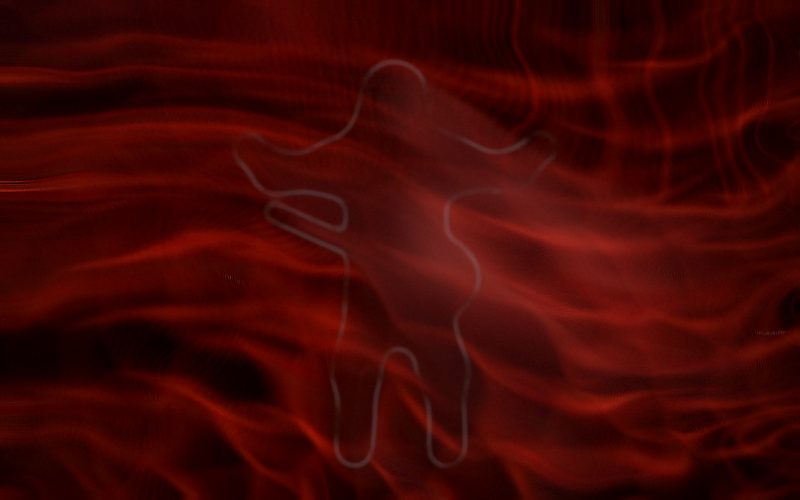
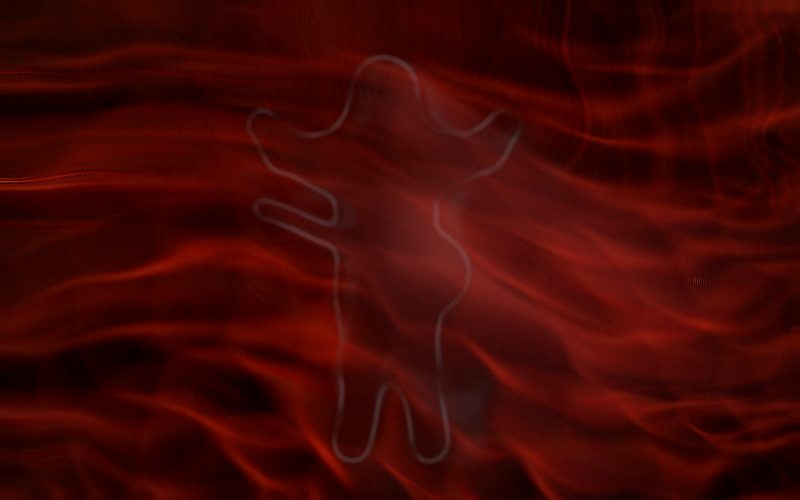
悪夢: 怖気セット — 蠕動・遅れる第二の輪郭・クレンチ・暗部の蠢き・心拍 (#159)
2026-08-25「もっと不快感、気持ち悪さ、ゾッとする感じを演出したい」対応。
派手な演出でなく生理的な違和感を積む(血・悲鳴・ジャンプスケアは不使用 —
「痛みの無い、抜け出せない倦怠と不快」の夢のまま):

- 蠕動: 収縮波(周期~11s)が場を渡り、通る所で組織がすぼまり(heave に
  進行方向の圧縮)、脈が張って灼ける(床の輝度を同位相で変調)。
  「自分は何かの内側にいて、飲み込まれつつある」の含意
- 遅れてついてくる第二の輪郭: 遅いマスクEMA(τ2.3/s→0.8/s に減速、
  τ≈1.25s)の等値線をもう一本のより薄い輪郭として描画。動くと輪郭が
  二つに割れ、止まるとゆっくり追いついて重なる。静止時も僅かに漂い、
  決してぴったりは重ならない(ドッペルゲンガー効果)
- クレンチ: もがきの立ち上がり(struggle が遅い自己平均を+0.10 上回る)で
  場が一瞬締まる — 引きが強まり、呼吸が縮み、脈が灼け、縁が沈む —
  そしてゆっくり緩む。不応期 2.6s。「気づかれた」の体感
- 暗部の蠢き: 黒い細胞の中だけ、粒がゆっくり這う(閾下 ~3%)
- 微かな心拍: ~1Hz の律動を輝度に閾下(2.8%)で
- スライダー「怖気」(dread, 初期0.65)1本で一括制御。freeze で全て静止

検証: verify_order 0 errors / verify_static 既知のgtagのみ /
verify_runtime --motion --longrun 12/12 pass / 実走行シーケンスで
蠕動による輪郭のよじれと分裂を確認。サムネイル再生成。

Claude-Session: https://claude.ai/code/session_0193D14d1SybLDp5E6kaLiCx

diff --git a/opus5_uneri.html b/opus5_uneri.html
@@ -19,6 +19,12 @@
        揺らぎが見えない」— 人はうねりを決して覆わない)。輪郭はソフトマスク
        の等値線帯。ノイズに千切られ、もがくほど薄れる。中身はごく薄い気配。
        ※「意識の窓」は同日のフィードバックで廃止。
+    7. 怖気(2026-08-25 追補「もっと不快感、気持ち悪さ、ゾッとする感じを」):
+       蠕動(収縮波が通ると組織がすぼまり脈が灼ける — 生き物の内側)、
+       遅れてついてくる第二の輪郭(遅いマスクEMA。動くと輪郭が二つに割れる)、
+       クレンチ(もがきの立ち上がりで場が一瞬締まり、緩む — 気づかれた)、
+       暗部の蠢きと微かな心拍(どちらも閾下)。派手にせず、生理的な違和感を
+       積む。血・悲鳴・ジャンプスケアは使わない(痛みの無い夢のまま)。
     3. 身体は呑まれる — マスクの中の実写が絶えずうねりへ注入され、
        引き伸ばされ、千切れて運ばれる。流血や欠損は描かない(痛みは無い。
        「よじれ引き裂かれる感覚」だけがある)。
@@ -66,6 +72,7 @@
     姿          人影の輪郭がどれだけ残るか
     目眩        回転と呼吸(ベクション)の強さ
     拘束        もがきがうねりを締める強さ
+    怖気        蠕動・第二の輪郭・締め付け・蠢きの強さ
     明るさ      画面全体の明るさ
     粒子        画面全体にかかる粒子の量
 
@@ -323,6 +330,7 @@
           figure: 0.55,
           dizzy: 0.45,
           grip: 0.60,
+          dread: 0.65,
           exposure: 1.0,
           filmGrain: 0.20,
         };
@@ -343,6 +351,7 @@
           ["figure", "姿", "人影の輪郭がどれだけ残るか", 0, 1, 0.01],
           ["dizzy", "目眩", "回転と呼吸の強さ", 0, 1, 0.01],
           ["grip", "拘束", "もがきがうねりを締める強さ", 0, 1, 0.01],
+          ["dread", "怖気", "蠕動・第二の輪郭・締め付け・蠢きの強さ", 0, 1, 0.01],
           ["exposure", "明るさ", "画面全体の明るさ", 0.6, 1.4, 0.01],
           ["filmGrain", "粒子", "画面全体にかかる粒子の量", 0, 1, 0.01],
         ];
@@ -741,10 +750,14 @@
           // 大きなたわみ: 画面より大きい波が網目の座標系そのものを揺らす。
           // 移流(積分)ではなく毎フレーム生成し直すので、網は溶けずに
           // 「うねる」— 流れてるだけに見える問題への答え(2026-08-25)
-          vec2 heave(vec2 p, float t, float sw) {
+          vec2 heave(vec2 p, float t, float sw, float dread) {
             float s1 = 0.55 / max(sw, 0.4);
             vec2 w = curlN(p * s1 + vec2(t * 0.11, -t * 0.079)) * 0.30;
             w += curlN(p * s1 * 2.4 + vec2(-t * 0.14, t * 0.10) + 3.7) * 0.13;
+            // 蠕動: 収縮波が通るとき、波の進行方向へ組織がすぼまる。
+            // 「自分は何かの内側にいて、飲み込まれつつある」の含意(怖気)
+            vec2 dir = normalize(vec2(0.8, 0.6));
+            w += dir * sin(dot(p, dir) * 2.6 - t * 0.55) * 0.055 * dread;
             return w;
           }
           // うねり。3スケール: 画面より大きい逆回転の巨渦対(中心は画面外を
@@ -799,6 +812,7 @@
           uniform float uTear;
           uniform float uRust;
           uniform float uStruggle;
+          uniform float uDread;
           uniform int uReset;
           ${CHUNK_NOISE}
           ${CHUNK_ENC}
@@ -851,9 +865,13 @@
             // 網目はたわむ座標系で毎フレーム生成し直す(移流で運ぶと数秒で
             // 絹の筋に溶ける)。移流層はこの上に裂片と履歴を残すだけ
             float sw = mix(0.85, 2.6, uSwell);
-            float pig = veinT(p + heave(p, uTime, sw) +
+            float pig = veinT(p + heave(p, uTime, sw, uDread) +
               vec2(uTime * 0.006, -uTime * 0.004));
-            vec3 base = dreamRamp(pig * 0.95, uRust);
+            // 蠕動: 収縮波の波頭で脈が張り、灼ける(heave のすぼまりと同位相)
+            vec2 pdir = normalize(vec2(0.8, 0.6));
+            float peri = smoothstep(0.55, 0.95,
+              0.5 + 0.5 * sin(dot(p, pdir) * 2.6 - uTime * 0.55)) * uDread;
+            vec3 base = dreamRamp(min(pig * (0.95 + 0.42 * peri), 1.0), uRust);
             // τ≈2.2s: 網の再刻印は速く。移流の記憶は2秒ほどだけ残る
             col = mix(col, base, 1.0 - exp(-uDt * 0.45));
 
@@ -1024,6 +1042,8 @@
           uniform float uFigure;
           uniform float uDizzy;
           uniform float uStruggle;
+          uniform float uDread;
+          uniform float uClench;
           uniform float uPresent;
           uniform int uDebug;
           ${CHUNK_NOISE}
@@ -1036,7 +1056,8 @@
             float wob = uDizzy;
             float angv = (sin(uTime * 0.050) + 0.6 * sin(uTime * 0.031 + 1.7)) *
               0.035 * wob;
-            float brth = 1.0 + 0.022 * wob * sin(uTime * 0.043 + 0.8);
+            float brth = (1.0 + 0.022 * wob * sin(uTime * 0.043 + 0.8)) *
+              (1.0 - 0.030 * uClench);
             vec2 q = (vUv - 0.5) * ar;
             float cav = cos(angv), sav = sin(angv);
             q = vec2(q.x * cav - q.y * sav, q.x * sav + q.y * cav) * brth;
@@ -1057,6 +1078,19 @@
             float outline = smoothstep(0.16, 0.42, sm) *
               (1.0 - smoothstep(0.52, 0.80, sm)) *
               smoothstep(0.22, 0.80, er + 0.22 * uTear);
+            // 遅れてついてくる第二の輪郭(怖気): 遅いマスクEMA(G)の等値線。
+            // 動くと輪郭が二つに割れ、止まるとゆっくり追いついて重なる。
+            // 静止していても僅かに漂い、決してぴったりは重ならない
+            vec2 wuv2 = clamp(wuv +
+              vec2(sin(uTime * 0.47), cos(uTime * 0.38)) * 0.0045 * uDread,
+              0.0, 1.0);
+            float sm2 = texture(uSoft, wuv2).g;
+            float er2 = fbm(vUv * ar * 11.0 - fl * 0.6 + 3.1);
+            float outline2 = smoothstep(0.16, 0.42, sm2) *
+              (1.0 - smoothstep(0.52, 0.80, sm2)) *
+              smoothstep(0.25, 0.85, er2);
+            col = mix(col, vec3(0.50, 0.47, 0.50),
+              outline2 * 0.34 * uDread * uFigure * uPresent);
             // 中身はほんの気配だけ(実写の輝度がごく薄く透ける)
             float fill = smoothstep(0.45, 0.95, mk.r) * 0.10;
             float a = clamp(outline * 0.48 + fill, 0.0, 1.0) *
@@ -1066,6 +1100,13 @@
             vec3 shade = mix(person * 0.55, vec3(0.60, 0.61, 0.65), outline * 0.7);
             col = mix(col, shade, a);
 
+            // ---- クレンチ: もがいた瞬間、場がぎゅっと締まる — 脈が灼け、
+            // 呼吸が縮み(上)、縁が沈む(下)。「気づかれた」の体感
+            col *= 1.0 + 0.20 * uClench;
+            // 微かな心拍(閾下 ~1Hz)。この空間は生きている
+            float beat = pow(max(0.0, sin(uTime * 6.1)), 6.0);
+            col *= 1.0 + 0.028 * uDread * beat;
+
             // ---- トーン: 暗く、周縁は深く沈む
             col = clamp(col * uExposure * 1.25, 0.0, 4.0);
             col = col / (1.0 + col * 0.42);
@@ -1073,8 +1114,15 @@
             vec2 dv = (vUv - 0.5) * ar;
             // 参考画像は隅まで網目が満ちる — 周辺減光は浅く。地はそのまま黒
             col *= 1.0 - 0.30 * smoothstep(0.40, 0.95, length(dv));
+            col *= 1.0 - 0.20 * uClench * smoothstep(0.10, 0.75, length(dv));
             float gr = hash12(floor(vUv * uResolution / 1.5)) - 0.5;
             col += gr * uFilmGrain * 0.06;
+            // 暗部の蠢き(閾下): 黒い細胞の中だけ、粒がゆっくり這う。
+            // 静止しているはずの所が静止していない
+            float crawl = vnoise(vUv * uResolution / 3.0 +
+              vec2(uTime * 2.0, -uTime * 1.3));
+            float darkm = 1.0 - smoothstep(0.05, 0.20, col.r);
+            col += (crawl - 0.5) * vec3(0.034, 0.020, 0.018) * uDread * darkm;
 
             if (uDebug == 1) {
               vec4 mk = texture(uMask, vUv);
@@ -1154,13 +1202,13 @@
           blur: getLocations(programs.blur, ["uSrc", "uDir", "uSigma"]),
           churn: getLocations(programs.churn, [
             "uPrev", "uScene", "uMask", "uDt", "uTime", "uAspect",
-            "uSwell", "uPull", "uTear", "uRust", "uStruggle", "uReset",
+            "uSwell", "uPull", "uTear", "uRust", "uStruggle", "uDread", "uReset",
           ]),
           composite: getLocations(programs.composite, [
             "uChurn", "uScene", "uMask", "uSoft",
             "uResolution", "uAspect", "uTime", "uExposure", "uFilmGrain",
             "uSwell", "uTear", "uRust", "uFigure", "uDizzy", "uStruggle",
-            "uPresent", "uDebug",
+            "uDread", "uClench", "uPresent", "uDebug",
           ]),
         };
 
@@ -1552,6 +1600,21 @@
           struggle.v += (sp - struggle.v) * (1 - Math.exp(-dt / tc));
         }
 
+        // クレンチ: もがきの「立ち上がり」に反応して場が一瞬締まり、ゆっくり
+        // 緩む(気づかれた、の体感)。不応期があるので立て続けには来ない。
+        // dt=0 で完全静止(freeze の決定性)
+        const clench = { v: 0, slow: 0, refr: 0 };
+        function updateClench(dt) {
+          if (dt <= 0) return;
+          clench.slow += (struggle.v - clench.slow) * (1 - Math.exp(-dt / 1.2));
+          clench.refr = Math.max(0, clench.refr - dt);
+          if (clench.refr <= 0 && struggle.v - clench.slow > 0.10) {
+            clench.v = 1.0;
+            clench.refr = 2.6;
+          }
+          clench.v *= Math.exp(-dt * 1.5);
+        }
+
         /* ------------------------------------------------------------------
            Simulation + present
         ------------------------------------------------------------------ */
@@ -1675,7 +1738,8 @@
             gl.uniform1f(u.uScale, FAKESCALE);
             gl.uniform1f(u.uDt, dt);
             gl.uniform1f(u.uAlphaFast, 1 - Math.exp(-Math.max(dt, 1e-4) * 16));
-            gl.uniform1f(u.uAlphaSlow, 1 - Math.exp(-Math.max(dt, 1e-4) * 2.3));
+            // 遅いEMAは第二の輪郭の「遅れ」そのもの(τ≈1.25s)
+            gl.uniform1f(u.uAlphaSlow, 1 - Math.exp(-Math.max(dt, 1e-4) * 0.8));
             gl.uniform1f(u.uAlphaMot, 1 - Math.exp(-Math.max(dt, 1e-4) * 5.5));
             gl.uniform1i(u.uReset, doReset ? 1 : 0);
             gl.uniform1i(u.uSource, source);
@@ -1699,10 +1763,13 @@
             gl.uniform1f(u.uTime, animTime);
             gl.uniform1f(u.uAspect, aspect);
             gl.uniform1f(u.uSwell, state.swell);
-            gl.uniform1f(u.uPull, state.pull);
+            // クレンチ中は引きが一瞬強まる(ぎゅっと締まって、緩む)
+            gl.uniform1f(u.uPull,
+              Math.min(1.6, state.pull * (1 + 0.55 * clench.v * state.dread)));
             gl.uniform1f(u.uTear, state.tear);
             gl.uniform1f(u.uRust, state.rust);
             gl.uniform1f(u.uStruggle, struggle.v * state.grip);
+            gl.uniform1f(u.uDread, state.dread);
             gl.uniform1i(u.uReset, doReset ? 1 : 0);
           });
 
@@ -1738,6 +1805,8 @@
             gl.uniform1f(u.uFigure, state.figure);
             gl.uniform1f(u.uDizzy, state.dizzy);
             gl.uniform1f(u.uStruggle, struggle.v * state.grip);
+            gl.uniform1f(u.uDread, state.dread);
+            gl.uniform1f(u.uClench, clench.v * state.dread);
             gl.uniform1f(u.uPresent, det.present);
             gl.uniform1i(u.uDebug, state.debugView);
           });
@@ -1776,6 +1845,7 @@
           if (!state.pauseAnim) animTime += dt;
           updateDetection(dt);
           updateStruggle(dt);
+          updateClench(dt);
 
           // ?prewarm=<sec>: deterministic fast-forward before __artReady, spread
           // over several rAF frames and synced with a 1x1 readPixels so the
@@ -1787,6 +1857,7 @@
               if (!state.pauseAnim) animTime += PREWARM_DT;
               updateDetection(PREWARM_DT);
               updateStruggle(PREWARM_DT);
+              updateClench(PREWARM_DT);
               stepSim(PREWARM_DT);
             }
             prewarmLeft -= n;
